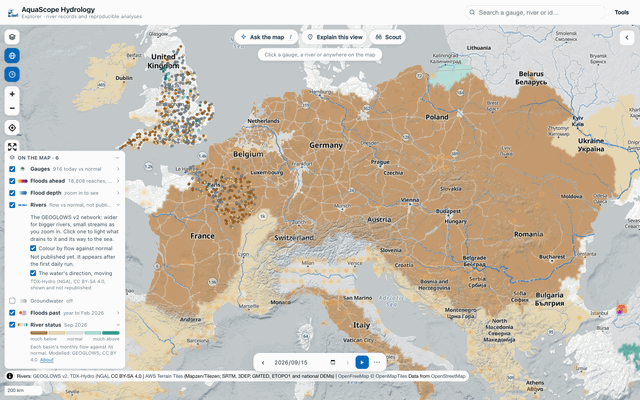
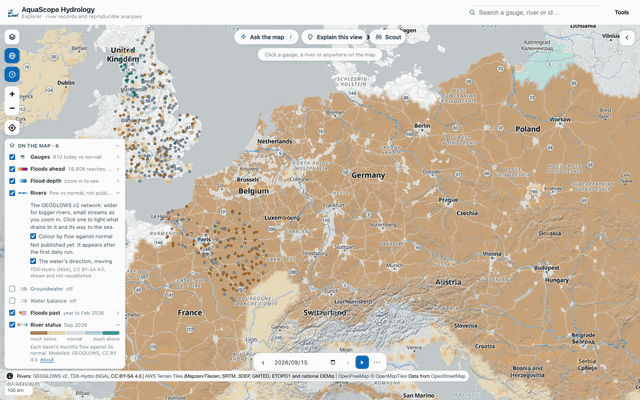
Review (#559): classed reaches drawn wider so the classes read at zoom 5; basins fade only while classes are drawn
At zoom 5 the order-5 to 8 rivers were about a pixel wide and the brown classes vanished into the faded brown
basins (the Europe screenshot showed no rivers at all). A classed reach is now 0.8 px wider than the plain
network, with its casing, and the basins fade to 30 %. Before the first issue is published, the river status
no longer fades for a colouring that is not drawn. The key's bar sits clear of the checkbox label. The docs
screenshots are retaken at native resolution, and the base period is checked on four reaches.

diff --git a/explorer/src/river-map.js b/explorer/src/river-map.js
@@ -10,7 +10,7 @@ import { currentBasemap, ensureShapeImages, fitBoundsTo, map, waitingForIdle } f
 import {
   FLOW_FPS, FLOW_STEPS, RIVERS_ATTRIBUTION, STREAMS_PMTILES, cumulativeKm, damsGeoJSON, flowDash, flowOpacity,
   highlightColor, highlightOpacity, highlightWidth, lineBounds, lineUpTo, networkStates, networkSummary, riverOpacity,
-  riverCasingOpacity, riverCasingWidth, riverOpacityFlow, riverTheme, riverThemeKind, riverWidth,
+  riverCasingOpacity, riverCasingWidth, riverOpacityFlow, riverTheme, riverThemeKind, riverWidth, riverWidthFlow,
 } from "./river-core.js?v=__BUILD__";
 import { FS_UNCLASSED_OPACITY, flowColorExpr } from "./flowstatus-core.js?v=__BUILD__";
 
@@ -51,9 +51,9 @@ function netPaint() {
   const dim = lit.size > 1 ? 0.5 : 1;
   if (colouring === "flow") {
     return { color: flowColorExpr(riverThemeKind(currentBasemap() || state.basemap)),
-      opacity: riverOpacityFlow(FS_UNCLASSED_OPACITY, dim) };
+      opacity: riverOpacityFlow(FS_UNCLASSED_OPACITY, dim), width: riverWidthFlow() };
   }
-  return { color: theme().line, opacity: riverOpacity(dim) };
+  return { color: theme().line, opacity: riverOpacity(dim), width: riverWidth() };
 }
 
 /** Colour the network by flow against normal ("flow") or plainly (null). */
@@ -64,6 +64,7 @@ export function setRiverColouring(mode) {
   const p = netPaint();
   map.setPaintProperty("river-net-line", "line-color", p.color);
   map.setPaintProperty("river-net-line", "line-opacity", p.opacity);
+  map.setPaintProperty("river-net-line", "line-width", p.width);
 }
 
 /**
@@ -99,7 +100,7 @@ export function ensureRiverLayers() {
       line("river-fs-casing", { "line-color": th.casing, "line-opacity": riverCasingOpacity(),
         "line-width": riverCasingWidth() });
       const p = netPaint();
-      line("river-net-line", { "line-color": p.color, "line-opacity": p.opacity, "line-width": riverWidth() });
+      line("river-net-line", { "line-color": p.color, "line-opacity": p.opacity, "line-width": p.width });
       line("river-flow", { "line-color": th.flow, "line-opacity": flowOpacity(), "line-width": riverWidth(),
         "line-dasharray": flowDash(0), ...FLOW_STILL });
       line("river-hl-casing", { "line-color": th.casing, "line-opacity": highlightOpacity(0.85),
@@ -166,6 +167,7 @@ function restyle() {
   const p = netPaint();
   paint("river-net-line", "line-color", p.color);
   paint("river-net-line", "line-opacity", p.opacity);
+  paint("river-net-line", "line-width", p.width);
   paint("river-flow", "line-color", th.flow);
   paint("river-fs-casing", "line-color", th.casing);
   for (const [prop, v] of Object.entries(FLOW_STILL)) paint("river-flow", prop, v);

diff --git a/explorer/src/river-core.js b/explorer/src/river-core.js
@@ -95,8 +95,16 @@ export const RIVER_THEMES = {
 };
 // Under a classed reach, a casing in the basemap's own background (#559): the class colours are the river status
 // layer's, so without it a brown river vanishes into a brown basin, and a pale one into the land.
+// A classed reach is also drawn `FS_WIDER` px wider than the plain network: at a region's zoom the order-5 to 8
+// rivers are a pixel or so wide, too thin to carry a colour (seen in the review screenshots at zoom 5).
+export const FS_WIDER = 0.8;
+const wider = (v, extra = 0) => (v > 0 ? Number((v + FS_WIDER + extra).toFixed(2)) : 0);
+export function riverWidthFlow() {
+  const fs = [">", ["coalesce", ["feature-state", "fs"], 0], 0];
+  return byZoom(WIDTH, (stops) => ["case", fs, byOrder(stops, (v) => wider(v)), byOrder(stops)]);
+}
 export function riverCasingWidth(extra = 1.6) {
-  return byZoom(WIDTH, (stops) => byOrder(stops, (v) => (v > 0 ? Number((v + extra).toFixed(2)) : 0)));
+  return byZoom(WIDTH, (stops) => byOrder(stops, (v) => wider(v, extra)));
 }
 export function riverCasingOpacity(scale = 0.9) {
   const fs = [">", ["coalesce", ["feature-state", "fs"], 0], 0];

diff --git a/explorer/src/status-layer.js b/explorer/src/status-layer.js
@@ -195,10 +195,10 @@ function draw(objectUrl) {
 // the rivers and the gauges are what you came for and a basin is the whole screen.
 // While the rivers carry the same classes (Flow vs normal, #559) the basins step back, or a brown river is lost in
 // a brown basin.
-const UNDER_RIVERS = 0.4;
+const UNDER_RIVERS = 0.3;
 
 function opacityByZoom() {
-  const o = (state.opacity.status ?? DEFAULT_OPACITY) * (state.flowNormal && state.riversOn ? UNDER_RIVERS : 1);
+  const o = (state.opacity.status ?? DEFAULT_OPACITY) * (state.flowNormalShown ? UNDER_RIVERS : 1);
   return ["interpolate", ["linear"], ["zoom"], 3, o, 6, o * 0.55, 9, o * 0.3];
 }
 

diff --git a/explorer/floods-past.css b/explorer/floods-past.css
@@ -88,6 +88,7 @@ body.workbench-mode .map-legends { display: none; }
 .sl-bar i:first-child { border-radius: 4px 2px 2px 4px; }
 .sl-bar i:last-child { border-radius: 2px 4px 4px 2px; }
 .sl-bar.mini { width: 22px; height: 7px; gap: 1px; }
+.ml-check + .sl-bar { margin-top: .45rem; }   /* a key under a checkbox (Flow vs normal, #559) */
 .sl-bar i.off { opacity: .22; }   /* a class Ask the map left off (#561) */
 .sl-focus { color: var(--ink-2); margin: .3rem 0 0; }
 .sl-ends { display: flex; justify-content: space-between; color: var(--muted); font-size: .64rem; margin-top: .15rem; }

diff --git a/explorer/src/core.js b/explorer/src/core.js
@@ -88,6 +88,7 @@ export const state = {
   // the river network is on from the start (#545); flowOn (river-map.js) follows prefers-reduced-motion
   riversOn: true,
   gaugesOn: true,      // the legend's Gauges row can hide every gauge mark (map.js setGaugesVisible)
+  flowNormalShown: false,   // Flow vs normal's classes are drawn on the rivers now (flowstatus-layer.js, #559)
   // layers (#232)
   overlays: new Set(), opacity: {}, date: null,
   // time (#522): the map date above is the one every dated layer follows; these

diff --git a/explorer/src/flowstatus-layer.js b/explorer/src/flowstatus-layer.js
@@ -91,6 +91,7 @@ function schedule() {
 
 function sync() {
   const on = Boolean(state.flowNormal && state.riversOn && ready());
+  state.flowNormalShown = on;   // the classes are on the lines (not before the first issue is published)
   setRiverColouring(on ? "flow" : null);
   refreshStatusOpacity();   // the basins step back while the rivers carry the classes
   if (on) schedule();

diff --git a/docs/explorer.md b/docs/explorer.md
@@ -809,16 +809,18 @@ below normal; lines with no class (smaller streams as you zoom in, dry channels)
 The classes are computed in Python once a day ([archive.md](archive.md#flow-against-normal-flowstatus)) and published
 as one compact file, `flowstatus/latest.bin.gz` (the river ids and a byte each). The page reads it once and, as the
 stream tiles load, sets each reach's class as MapLibre feature-state on `riverId`, the same mechanism as the lit
-network (which now takes off only its own state, so the two can be on together). Each classed reach sits on a thin
-casing in the basemap's background colour, and while the colouring is on the river status layer's basins fade to
-40 % of their opacity: in the same five colours, a brown river would otherwise vanish into a brown basin. It is off
-by default. On the globe only the great rivers are drawn, a pixel or two wide, and the basins already answer there;
-the colouring is for a region (zoom 5 and closer), where it reads well. A link carries `fn=1`.
+network (which now takes off only its own state, so the two can be on together). A classed reach is drawn a little
+wider than the plain network, on a thin casing in the basemap's background colour, and while the classes are on the
+river status layer's basins fade to 30 % of their opacity: in the same five colours, a brown river would otherwise
+vanish into a brown basin. It is off by default. On the globe only the great rivers are drawn, a pixel or two wide,
+and the basins already answer there; the colouring is for a region (zoom 5 and closer). A link carries `fn=1`.
 
-![Flow vs normal over Europe at zoom 5, the basins faded](img/globe/flow-vs-normal-europe.png)
-![The Rhine, Mosel and Main at zoom 7](img/globe/flow-vs-normal-rhine.png) Before the first daily issue the key says it is not published
-yet and the rivers keep their blue. The same issue is `aquascope flowstatus [--bbox W S E N] [--river-id ID]` and the
-MCP tool `flow_vs_normal`. Modelled, not measured.
+![Flow vs normal over western Europe at zoom 5, the basins faded](img/globe/flow-vs-normal-europe.png)
+![The Rhine, Mosel and Main at zoom 7](img/globe/flow-vs-normal-rhine.png)
+
+Before the first daily issue the key says it is not published yet, and the rivers and basins stay as they were. The
+same issue is `aquascope flowstatus [--bbox W S E N] [--river-id ID]` and the MCP tool `flow_vs_normal`. Modelled,
+not measured.
 
 The same functions are `aquascope river snap|record|area|trace|dams|upstream|downstream`
 and the MCP tools `snap_to_river`, `reach_record`, `upstream_area`,

diff --git a/CHANGELOG.md b/CHANGELOG.md
@@ -9,7 +9,7 @@ All notable changes to AquaScope are documented here.
 
 ### Added
 - **Flow vs normal on every big river** (#559, part of #566), the NOAA National Water Model map for the whole world: every GEOGLOWS v2 reach of Strahler order 5 and up (842,581) coloured by its forecast flow for the day against its own normal for the month ([docs](docs/explorer.md#flow-vs-normal-on-the-rivers)).
-  - `aquascope.flowstatus`: the climatology, once (`flow-climatology.yml`, by hand): the 10th, 25th, 75th and 90th percentiles of daily flow by calendar month from GEOGLOWS's `retrospective/fdc.zarr` (checked to be 1950 to 2019 against a reach's daily record), published under `flowstatus/climatology/`. Then daily: `warnings run --day0` keeps each reach's first-day ensemble-mean flow from the chunks Floods ahead already reads, so nothing is downloaded twice, and `flowstatus daily` classes it in the river status layer's five HydroSOS classes and publishes `flowstatus/latest.bin.gz` (sorted river ids as varint gaps and a class byte each), `latest.parquet` and a manifest, writing only under `flowstatus/`.
+  - `aquascope.flowstatus`: the climatology, once (`flow-climatology.yml`, by hand): the 10th, 25th, 75th and 90th percentiles of daily flow by calendar month from GEOGLOWS's `retrospective/fdc.zarr` (checked to be 1950 to 2019 against four reaches' daily records), published under `flowstatus/climatology/`. Then daily: `warnings run --day0` keeps each reach's first-day ensemble-mean flow from the chunks Floods ahead already reads, so nothing is downloaded twice, and `flowstatus daily` classes it in the river status layer's five HydroSOS classes and publishes `flowstatus/latest.bin.gz` (sorted river ids as varint gaps and a class byte each), `latest.parquet` and a manifest, writing only under `flowstatus/`.
   - `aquascope flowstatus [--bbox W S E N] [--river-id ID]` and the MCP tool `flow_vs_normal`; every number in the sentence comes from the counts.
   - In the Explorer: **Colour by flow against normal** in the legend's Rivers row (off by default, `fn=1` in a link) colours the living rivers by feature-state on `riverId` in the river status colours, with the forecast day and the share above and below normal in the key, and says so before the first issue is published. The lit network now takes off only its own feature-state.
 - **Subbasins by monthly water balance, replayable** (#557, part of #566), the HEC-HMS and QSWAT basin map for the whole world, keyless ([docs](docs/explorer.md#water-balance)).

diff --git a/docs/archive.md b/docs/archive.md
@@ -263,7 +263,7 @@ its own normal for the month (#559), the NOAA National Water Model map for the w
 
 - **The climatology, once** (`flow-climatology.yml`, run by hand): GEOGLOWS publishes flow duration curves for every
   reach (`s3://geoglows-v2/retrospective/fdc.zarr`, `daily_monthly`), the percentiles of daily flow in each calendar
-  month. Checked against the daily record of a Rhine reach, they are the percentiles of 1950 to 2019 (linear
+  month. Checked against the daily records of four reaches (three months each), they are the percentiles of 1950 to 2019 (linear
   interpolation) to within 1e-7. The job keeps the 10th, 25th, 75th and 90th of each month and writes only under
   `flowstatus/climatology/`. Those reaches are spread over 23,085 of the store's 27,356 chunks (250 reaches each,
   every month and probability together, 0.8 MB compressed), so the build streams about 18.5 GB. Measured on a
